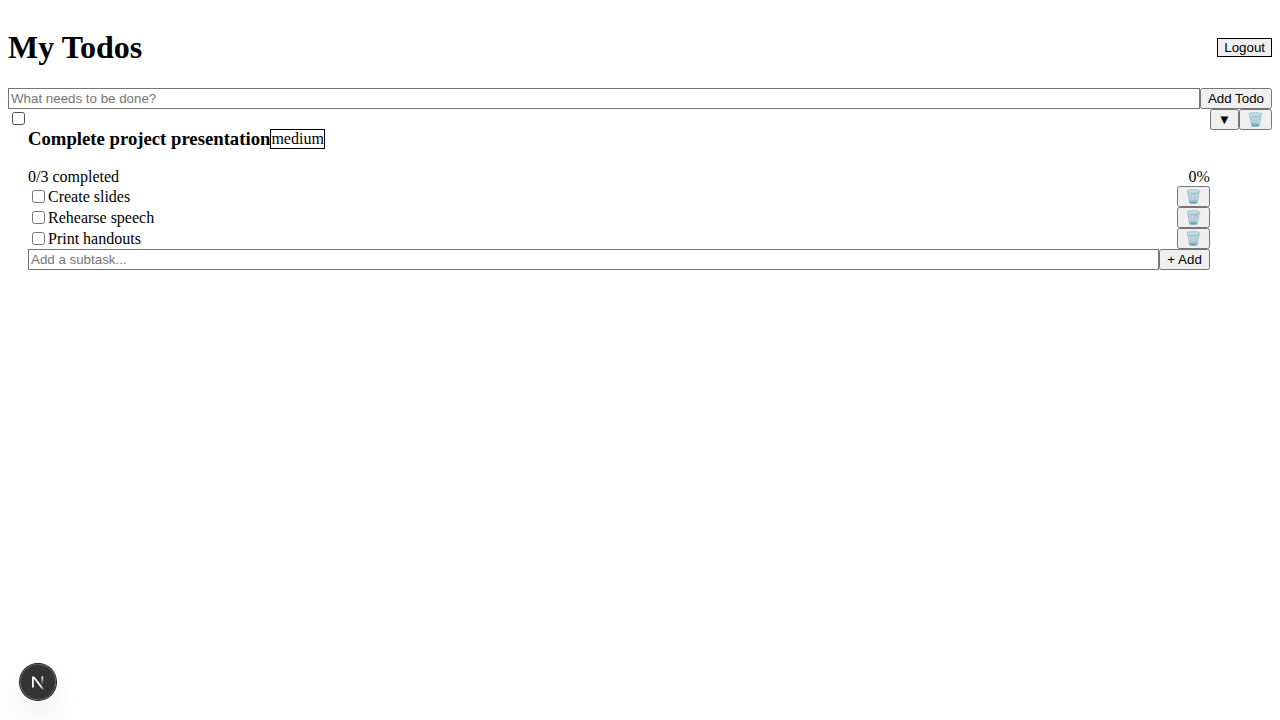
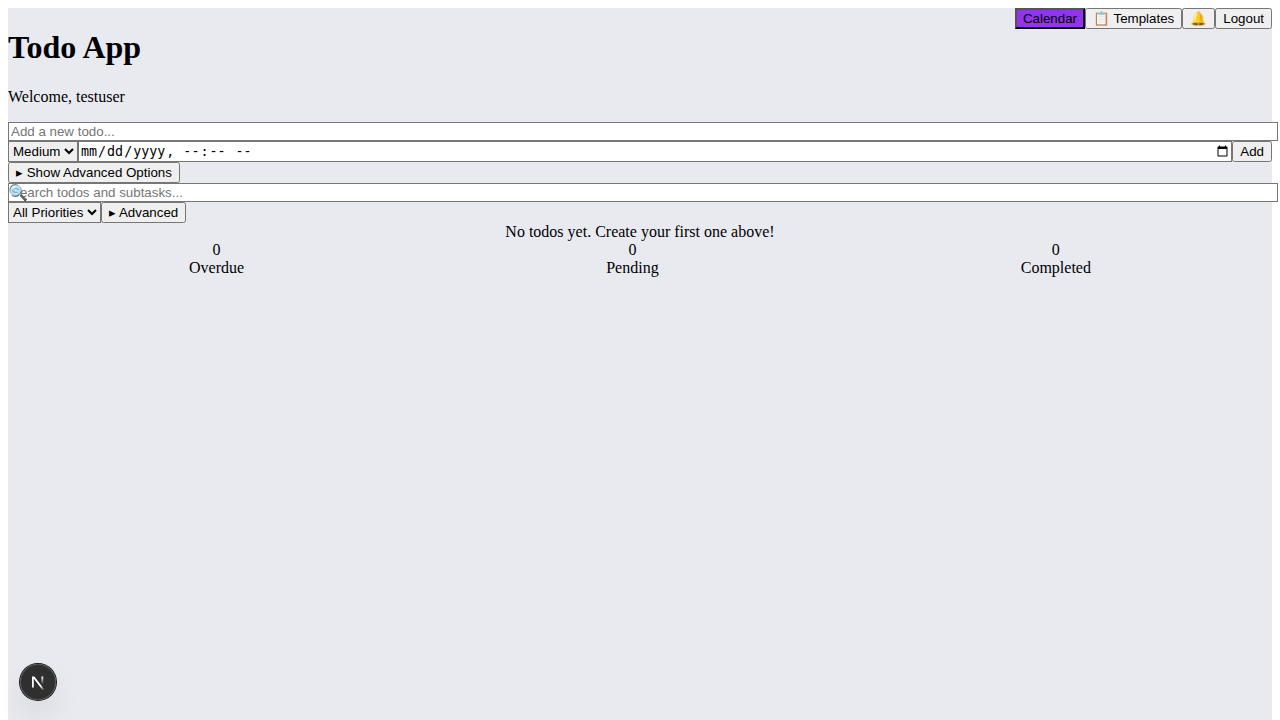
Update tests to match new UI styling

diff --git a/tests/02-priority-system.spec.ts b/tests/02-priority-system.spec.ts
@@ -34,7 +34,7 @@ test.describe('Priority System', () => {
     // Fill in the todo form
     await page.fill('input[placeholder="Enter todo title..."]', 'Urgent task');
     await page.selectOption('select', 'high');
-    await page.click('button:has-text("Add Todo")');
+    await page.click('button:has-text("Add")');
 
     // Wait for the todo to appear
     await expect(page.locator('text=Urgent task')).toBeVisible();
@@ -48,7 +48,7 @@ test.describe('Priority System', () => {
   test('should create todo with medium priority (default)', async ({ page }) => {
     await page.fill('input[placeholder="Enter todo title..."]', 'Regular task');
     // Don't change priority (should default to medium)
-    await page.click('button:has-text("Add Todo")');
+    await page.click('button:has-text("Add")');
 
     await expect(page.locator('text=Regular task')).toBeVisible();
 
@@ -60,7 +60,7 @@ test.describe('Priority System', () => {
   test('should create todo with low priority', async ({ page }) => {
     await page.fill('input[placeholder="Enter todo title..."]', 'Low priority task');
     await page.selectOption('select', 'low');
-    await page.click('button:has-text("Add Todo")');
+    await page.click('button:has-text("Add")');
 
     await expect(page.locator('text=Low priority task')).toBeVisible();
 
@@ -73,7 +73,7 @@ test.describe('Priority System', () => {
     // Create a todo with medium priority
     await page.fill('input[placeholder="Enter todo title..."]', 'Task to change');
     await page.selectOption('select', 'medium');
-    await page.click('button:has-text("Add Todo")');
+    await page.click('button:has-text("Add")');
 
     await expect(page.locator('text=Task to change')).toBeVisible();
 
@@ -97,17 +97,17 @@ test.describe('Priority System', () => {
     // Create todos with different priorities
     await page.fill('input[placeholder="Enter todo title..."]', 'High priority task');
     await page.selectOption('select', 'high');
-    await page.click('button:has-text("Add Todo")');
+    await page.click('button:has-text("Add")');
     await expect(page.locator('text=High priority task')).toBeVisible();
 
     await page.fill('input[placeholder="Enter todo title..."]', 'Medium priority task');
     await page.selectOption('select', 'medium');
-    await page.click('button:has-text("Add Todo")');
+    await page.click('button:has-text("Add")');
     await expect(page.locator('text=Medium priority task')).toBeVisible();
 
     await page.fill('input[placeholder="Enter todo title..."]', 'Low priority task');
     await page.selectOption('select', 'low');
-    await page.click('button:has-text("Add Todo")');
+    await page.click('button:has-text("Add")');
     await expect(page.locator('text=Low priority task')).toBeVisible();
 
     // All todos should be visible initially
@@ -128,11 +128,11 @@ test.describe('Priority System', () => {
     // Create todos with different priorities
     await page.fill('input[placeholder="Enter todo title..."]', 'High task');
     await page.selectOption('select', 'high');
-    await page.click('button:has-text("Add Todo")');
+    await page.click('button:has-text("Add")');
 
     await page.fill('input[placeholder="Enter todo title..."]', 'Medium task');
     await page.selectOption('select', 'medium');
-    await page.click('button:has-text("Add Todo")');
+    await page.click('button:has-text("Add")');
 
     // Click the Medium filter button
     await page.click('button:has-text("Medium")');
@@ -146,11 +146,11 @@ test.describe('Priority System', () => {
     // Create todos with different priorities
     await page.fill('input[placeholder="Enter todo title..."]', 'High task');
     await page.selectOption('select', 'high');
-    await page.click('button:has-text("Add Todo")');
+    await page.click('button:has-text("Add")');
 
     await page.fill('input[placeholder="Enter todo title..."]', 'Low task');
     await page.selectOption('select', 'low');
-    await page.click('button:has-text("Add Todo")');
+    await page.click('button:has-text("Add")');
 
     // Click the Low filter button
     await page.click('button:has-text("Low")');
@@ -164,11 +164,11 @@ test.describe('Priority System', () => {
     // Create todos with different priorities
     await page.fill('input[placeholder="Enter todo title..."]', 'High task');
     await page.selectOption('select', 'high');
-    await page.click('button:has-text("Add Todo")');
+    await page.click('button:has-text("Add")');
 
     await page.fill('input[placeholder="Enter todo title..."]', 'Low task');
     await page.selectOption('select', 'low');
-    await page.click('button:has-text("Add Todo")');
+    await page.click('button:has-text("Add")');
 
     // Filter by high
     await page.click('button:has-text("High")');
@@ -185,15 +185,15 @@ test.describe('Priority System', () => {
     // Create todos in reverse priority order
     await page.fill('input[placeholder="Enter todo title..."]', 'Low task');
     await page.selectOption('select', 'low');
-    await page.click('button:has-text("Add Todo")');
+    await page.click('button:has-text("Add")');
 
     await page.fill('input[placeholder="Enter todo title..."]', 'High task');
     await page.selectOption('select', 'high');
-    await page.click('button:has-text("Add Todo")');
+    await page.click('button:has-text("Add")');
 
     await page.fill('input[placeholder="Enter todo title..."]', 'Medium task');
     await page.selectOption('select', 'medium');
-    await page.click('button:has-text("Add Todo")');
+    await page.click('button:has-text("Add")');
 
     // Enable priority sorting
     await page.check('input[type="checkbox"]');
@@ -214,12 +214,12 @@ test.describe('Priority System', () => {
     // Create high priority todo
     await page.fill('input[placeholder="Enter todo title..."]', 'High task');
     await page.selectOption('select', 'high');
-    await page.click('button:has-text("Add Todo")');
+    await page.click('button:has-text("Add")');
 
     // Create low priority todo
     await page.fill('input[placeholder="Enter todo title..."]', 'Low task');
     await page.selectOption('select', 'low');
-    await page.click('button:has-text("Add Todo")');
+    await page.click('button:has-text("Add")');
 
     // Enable priority sorting
     await page.check('input[type="checkbox"]');
@@ -261,19 +261,19 @@ test.describe('Priority System', () => {
     // Create 2 high, 1 medium, 1 low priority todos
     await page.fill('input[placeholder="Enter todo title..."]', 'High 1');
     await page.selectOption('select', 'high');
-    await page.click('button:has-text("Add Todo")');
+    await page.click('button:has-text("Add")');
 
     await page.fill('input[placeholder="Enter todo title..."]', 'High 2');
     await page.selectOption('select', 'high');
-    await page.click('button:has-text("Add Todo")');
+    await page.click('button:has-text("Add")');
 
     await page.fill('input[placeholder="Enter todo title..."]', 'Medium 1');
     await page.selectOption('select', 'medium');
-    await page.click('button:has-text("Add Todo")');
+    await page.click('button:has-text("Add")');
 
     await page.fill('input[placeholder="Enter todo title..."]', 'Low 1');
     await page.selectOption('select', 'low');
-    await page.click('button:has-text("Add Todo")');
+    await page.click('button:has-text("Add")');
 
     // Check the counts in filter buttons
     await expect(page.locator('button:has-text("All (4)")')).toBeVisible();

diff --git a/tests/02-todo-crud.spec.ts b/tests/02-todo-crud.spec.ts
@@ -5,32 +5,32 @@ test.describe('Todo CRUD Operations', () => {
     // Navigate to the app
     await page.goto('/');
     // Wait for the page to load
-    await page.waitForSelector('h1:has-text("My Todos")');
+    await page.waitForSelector('h1:has-text("Todo App")');
   });
 
   test('should display the todo app interface', async ({ page }) => {
     // Check for main heading
-    await expect(page.locator('h1')).toContainText('My Todos');
+    await expect(page.locator('h1')).toContainText('Todo App');
     
     // Check for add todo form
-    await expect(page.locator('input[placeholder="What needs to be done?"]')).toBeVisible();
-    await expect(page.locator('button:has-text("Add Todo")')).toBeVisible();
+    await expect(page.locator('input[placeholder="Add a new todo..."]')).toBeVisible();
+    await expect(page.locator('button:has-text("Add")')).toBeVisible();
   });
 
   test('should create a todo with title only', async ({ page }) => {
     const todoTitle = 'Buy milk';
     
     // Fill in the title
-    await page.fill('input[placeholder="What needs to be done?"]', todoTitle);
+    await page.fill('input[placeholder="Add a new todo..."]', todoTitle);
     
     // Click Add Todo button
-    await page.click('button:has-text("Add Todo")');
+    await page.click('button:has-text("Add")');
     
     // Wait for the todo to appear in the list
     await expect(page.locator(`text=${todoTitle}`).first()).toBeVisible();
     
     // Verify the input is cleared
-    await expect(page.locator('input[placeholder="What needs to be done?"]')).toHaveValue('');
+    await expect(page.locator('input[placeholder="Add a new todo..."]')).toHaveValue('');
   });
 
   test('should create a todo with title and due date', async ({ page }) => {
@@ -38,11 +38,11 @@ test.describe('Todo CRUD Operations', () => {
     const dueDate = '2026-12-25T14:30';
     
     // Fill in the form
-    await page.fill('input[placeholder="What needs to be done?"]', todoTitle);
+    await page.fill('input[placeholder="Add a new todo..."]', todoTitle);
     await page.fill('input[type="datetime-local"]', dueDate);
     
     // Submit
-    await page.click('button:has-text("Add Todo")');
+    await page.click('button:has-text("Add")');
     
     // Verify todo appears
     await expect(page.locator(`text=${todoTitle}`).first()).toBeVisible();
@@ -55,8 +55,8 @@ test.describe('Todo CRUD Operations', () => {
     const todoTitle = 'Test completion';
     
     // Create a todo
-    await page.fill('input[placeholder="What needs to be done?"]', todoTitle);
-    await page.click('button:has-text("Add Todo")');
+    await page.fill('input[placeholder="Add a new todo..."]', todoTitle);
+    await page.click('button:has-text("Add")');
     await expect(page.locator(`text=${todoTitle}`).first()).toBeVisible();
     
     // Find the checkbox for this todo
@@ -83,8 +83,8 @@ test.describe('Todo CRUD Operations', () => {
     const updatedTitle = 'Updated task';
     
     // Create a todo
-    await page.fill('input[placeholder="What needs to be done?"]', originalTitle);
-    await page.click('button:has-text("Add Todo")');
+    await page.fill('input[placeholder="Add a new todo..."]', originalTitle);
+    await page.click('button:has-text("Add")');
     await expect(page.locator(`text=${originalTitle}`).first()).toBeVisible();
     
     // Click on the title to edit
@@ -112,8 +112,8 @@ test.describe('Todo CRUD Operations', () => {
     const todoTitle = 'Task to delete';
     
     // Create a todo
-    await page.fill('input[placeholder="What needs to be done?"]', todoTitle);
-    await page.click('button:has-text("Add Todo")');
+    await page.fill('input[placeholder="Add a new todo..."]', todoTitle);
+    await page.click('button:has-text("Add")');
     await expect(page.locator(`text=${todoTitle}`).first()).toBeVisible();
     
     // Find and click the delete button
@@ -138,8 +138,8 @@ test.describe('Todo CRUD Operations', () => {
     const todoTitle = 'Task to keep';
     
     // Create a todo
-    await page.fill('input[placeholder="What needs to be done?"]', todoTitle);
-    await page.click('button:has-text("Add Todo")');
+    await page.fill('input[placeholder="Add a new todo..."]', todoTitle);
+    await page.click('button:has-text("Add")');
     await expect(page.locator(`text=${todoTitle}`).first()).toBeVisible();
     
     // Find and click the delete button
@@ -178,7 +178,7 @@ test.describe('Todo CRUD Operations', () => {
 
   test('should validate empty title', async ({ page }) => {
     // Try to submit empty form
-    await page.click('button:has-text("Add Todo")');
+    await page.click('button:has-text("Add")');
     
     // Should show error message
     await expect(page.locator('text=/Title cannot be empty/i')).toBeVisible();
@@ -192,9 +192,9 @@ test.describe('Todo CRUD Operations', () => {
     const dueDateStr = yesterday.toISOString().slice(0, 16);
     
     // Create todo with past due date
-    await page.fill('input[placeholder="What needs to be done?"]', todoTitle);
+    await page.fill('input[placeholder="Add a new todo..."]', todoTitle);
     await page.fill('input[type="datetime-local"]', dueDateStr);
-    await page.click('button:has-text("Add Todo")');
+    await page.click('button:has-text("Add")');
     
     // Wait for todo to appear
     await expect(page.locator(`text=${todoTitle}`).first()).toBeVisible();
@@ -210,8 +210,8 @@ test.describe('Todo CRUD Operations', () => {
     
     // Create multiple todos
     for (const todo of todos) {
-      await page.fill('input[placeholder="What needs to be done?"]', todo);
-      await page.click('button:has-text("Add Todo")');
+      await page.fill('input[placeholder="Add a new todo..."]', todo);
+      await page.click('button:has-text("Add")');
       await page.waitForTimeout(300);
     }
     
@@ -229,15 +229,15 @@ test.describe('Todo CRUD Operations', () => {
     const todoTitle = 'Persistent task';
     
     // Create a todo
-    await page.fill('input[placeholder="What needs to be done?"]', todoTitle);
-    await page.click('button:has-text("Add Todo")');
+    await page.fill('input[placeholder="Add a new todo..."]', todoTitle);
+    await page.click('button:has-text("Add")');
     await expect(page.locator(`text=${todoTitle}`).first()).toBeVisible();
     
     // Reload the page
     await page.reload();
     
     // Wait for page to load
-    await page.waitForSelector('h1:has-text("My Todos")');
+    await page.waitForSelector('h1:has-text("Todo App")');
     
     // Verify todo still exists
     await expect(page.locator(`text=${todoTitle}`).first()).toBeVisible();

diff --git a/tests/subtasks.test.js b/tests/subtasks.test.js
@@ -25,14 +25,14 @@ async function testSubtasks() {
     
     await page.fill('input#username', 'testuser');
     await page.click('button[type="submit"]');
-    await page.waitForSelector('h1:has-text("My Todos")', { timeout: 5000 });
+    await page.waitForSelector('h1:has-text("Todo App")', { timeout: 5000 });
     console.log('✅ Login successful\n');
     await page.screenshot({ path: 'test-screenshots/02-logged-in.png' });
 
     // Step 2: Create a todo
     console.log('📝 Step 2: Creating a todo...');
-    await page.fill('input[placeholder*="What needs to be done"]', 'Complete project presentation');
-    await page.click('button:has-text("Add Todo")');
+    await page.fill('input[placeholder*="Add a new todo"]', 'Complete project presentation');
+    await page.click('button:has-text("Add")');
     await page.waitForTimeout(500);
     await page.screenshot({ path: 'test-screenshots/03-todo-created.png' });
     
@@ -49,7 +49,7 @@ async function testSubtasks() {
     await page.waitForTimeout(500);
     await page.screenshot({ path: 'test-screenshots/04-todo-expanded.png' });
     
-    const subtaskFormVisible = await page.locator('input[placeholder*="Add a subtask"]').isVisible();
+    const subtaskFormVisible = await page.locator('input[placeholder*="Add subtask"]').isVisible();
     if (!subtaskFormVisible) {
       throw new Error('Subtask form not visible after expanding');
     }
@@ -57,7 +57,7 @@ async function testSubtasks() {
 
     // Step 4: Add first subtask
     console.log('📝 Step 4: Adding first subtask...');
-    await page.fill('input[placeholder*="Add a subtask"]', 'Create slides');
+    await page.fill('input[placeholder*="Add subtask"]', 'Create slides');
     await page.click('button:has-text("+ Add")');
     await page.waitForTimeout(500);
     await page.screenshot({ path: 'test-screenshots/05-subtask-1-added.png' });
@@ -70,7 +70,7 @@ async function testSubtasks() {
 
     // Step 5: Add second subtask
     console.log('📝 Step 5: Adding second subtask...');
-    await page.fill('input[placeholder*="Add a subtask"]', 'Rehearse speech');
+    await page.fill('input[placeholder*="Add subtask"]', 'Rehearse speech');
     await page.click('button:has-text("+ Add")');
     await page.waitForTimeout(500);
     
@@ -82,7 +82,7 @@ async function testSubtasks() {
 
     // Step 6: Add third subtask
     console.log('📝 Step 6: Adding third subtask...');
-    await page.fill('input[placeholder*="Add a subtask"]', 'Print handouts');
+    await page.fill('input[placeholder*="Add subtask"]', 'Print handouts');
     await page.click('button:has-text("+ Add")');
     await page.waitForTimeout(500);
     await page.screenshot({ path: 'test-screenshots/06-all-subtasks-added.png' });
@@ -167,7 +167,7 @@ async function testSubtasks() {
     await page.waitForTimeout(500);
     await page.screenshot({ path: 'test-screenshots/11-todo-collapsed.png' });
     
-    const subtaskFormHidden = await page.locator('input[placeholder*="Add a subtask"]').isHidden();
+    const subtaskFormHidden = await page.locator('input[placeholder*="Add subtask"]').isHidden();
     if (!subtaskFormHidden) {
       throw new Error('Subtask form still visible after collapsing');
     }
